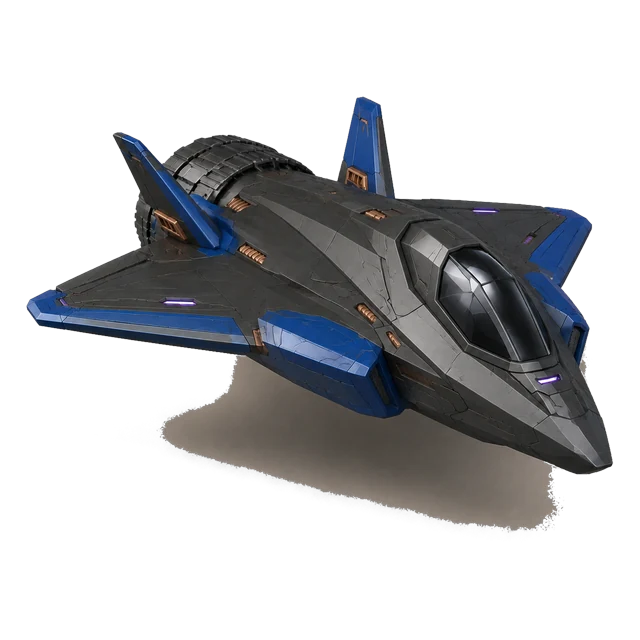
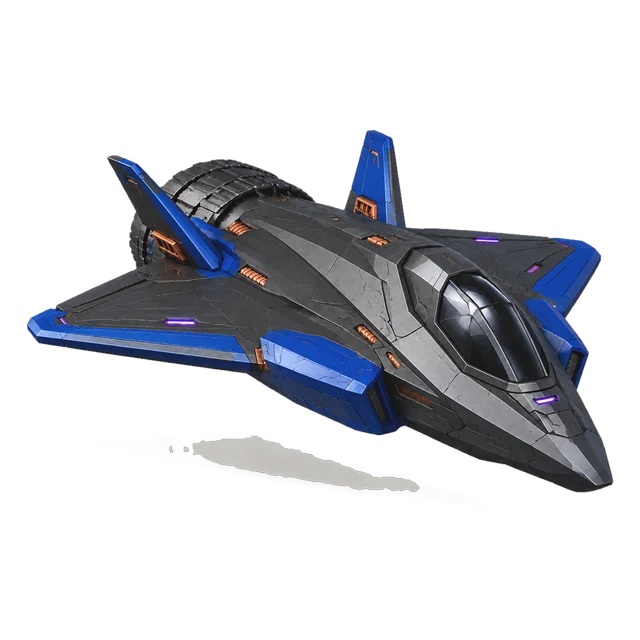
F-35A all six stages; RQ-4 ranks 1 and 10 redrawn airborne
Claude-Session: https://claude.ai/code/session_01PD8ZQVbFQYnyuDNWfiLyC2

Changed region(s): [[0.0312, 0.1562, 0.9688, 0.8438]]

diff --git a/shared/assetVisuals.ts b/shared/assetVisuals.ts
@@ -36,7 +36,7 @@ export function nextVisualStage(level: number): StageRank | null {
 export const ART_STAGES: Readonly<Record<string, readonly StageRank[]>> = {
   m1a2: [1, 10, 20, 30, 40, 50],
   leclerc: [1, 10, 20, 30, 40, 50],
-  f35a: [1, 10, 20],
+  f35a: [1, 10, 20, 30, 40, 50],
   rq4: [1, 10, 20],
   m270a2: [1, 10, 20],
   mi35m: [1, 10, 20],
